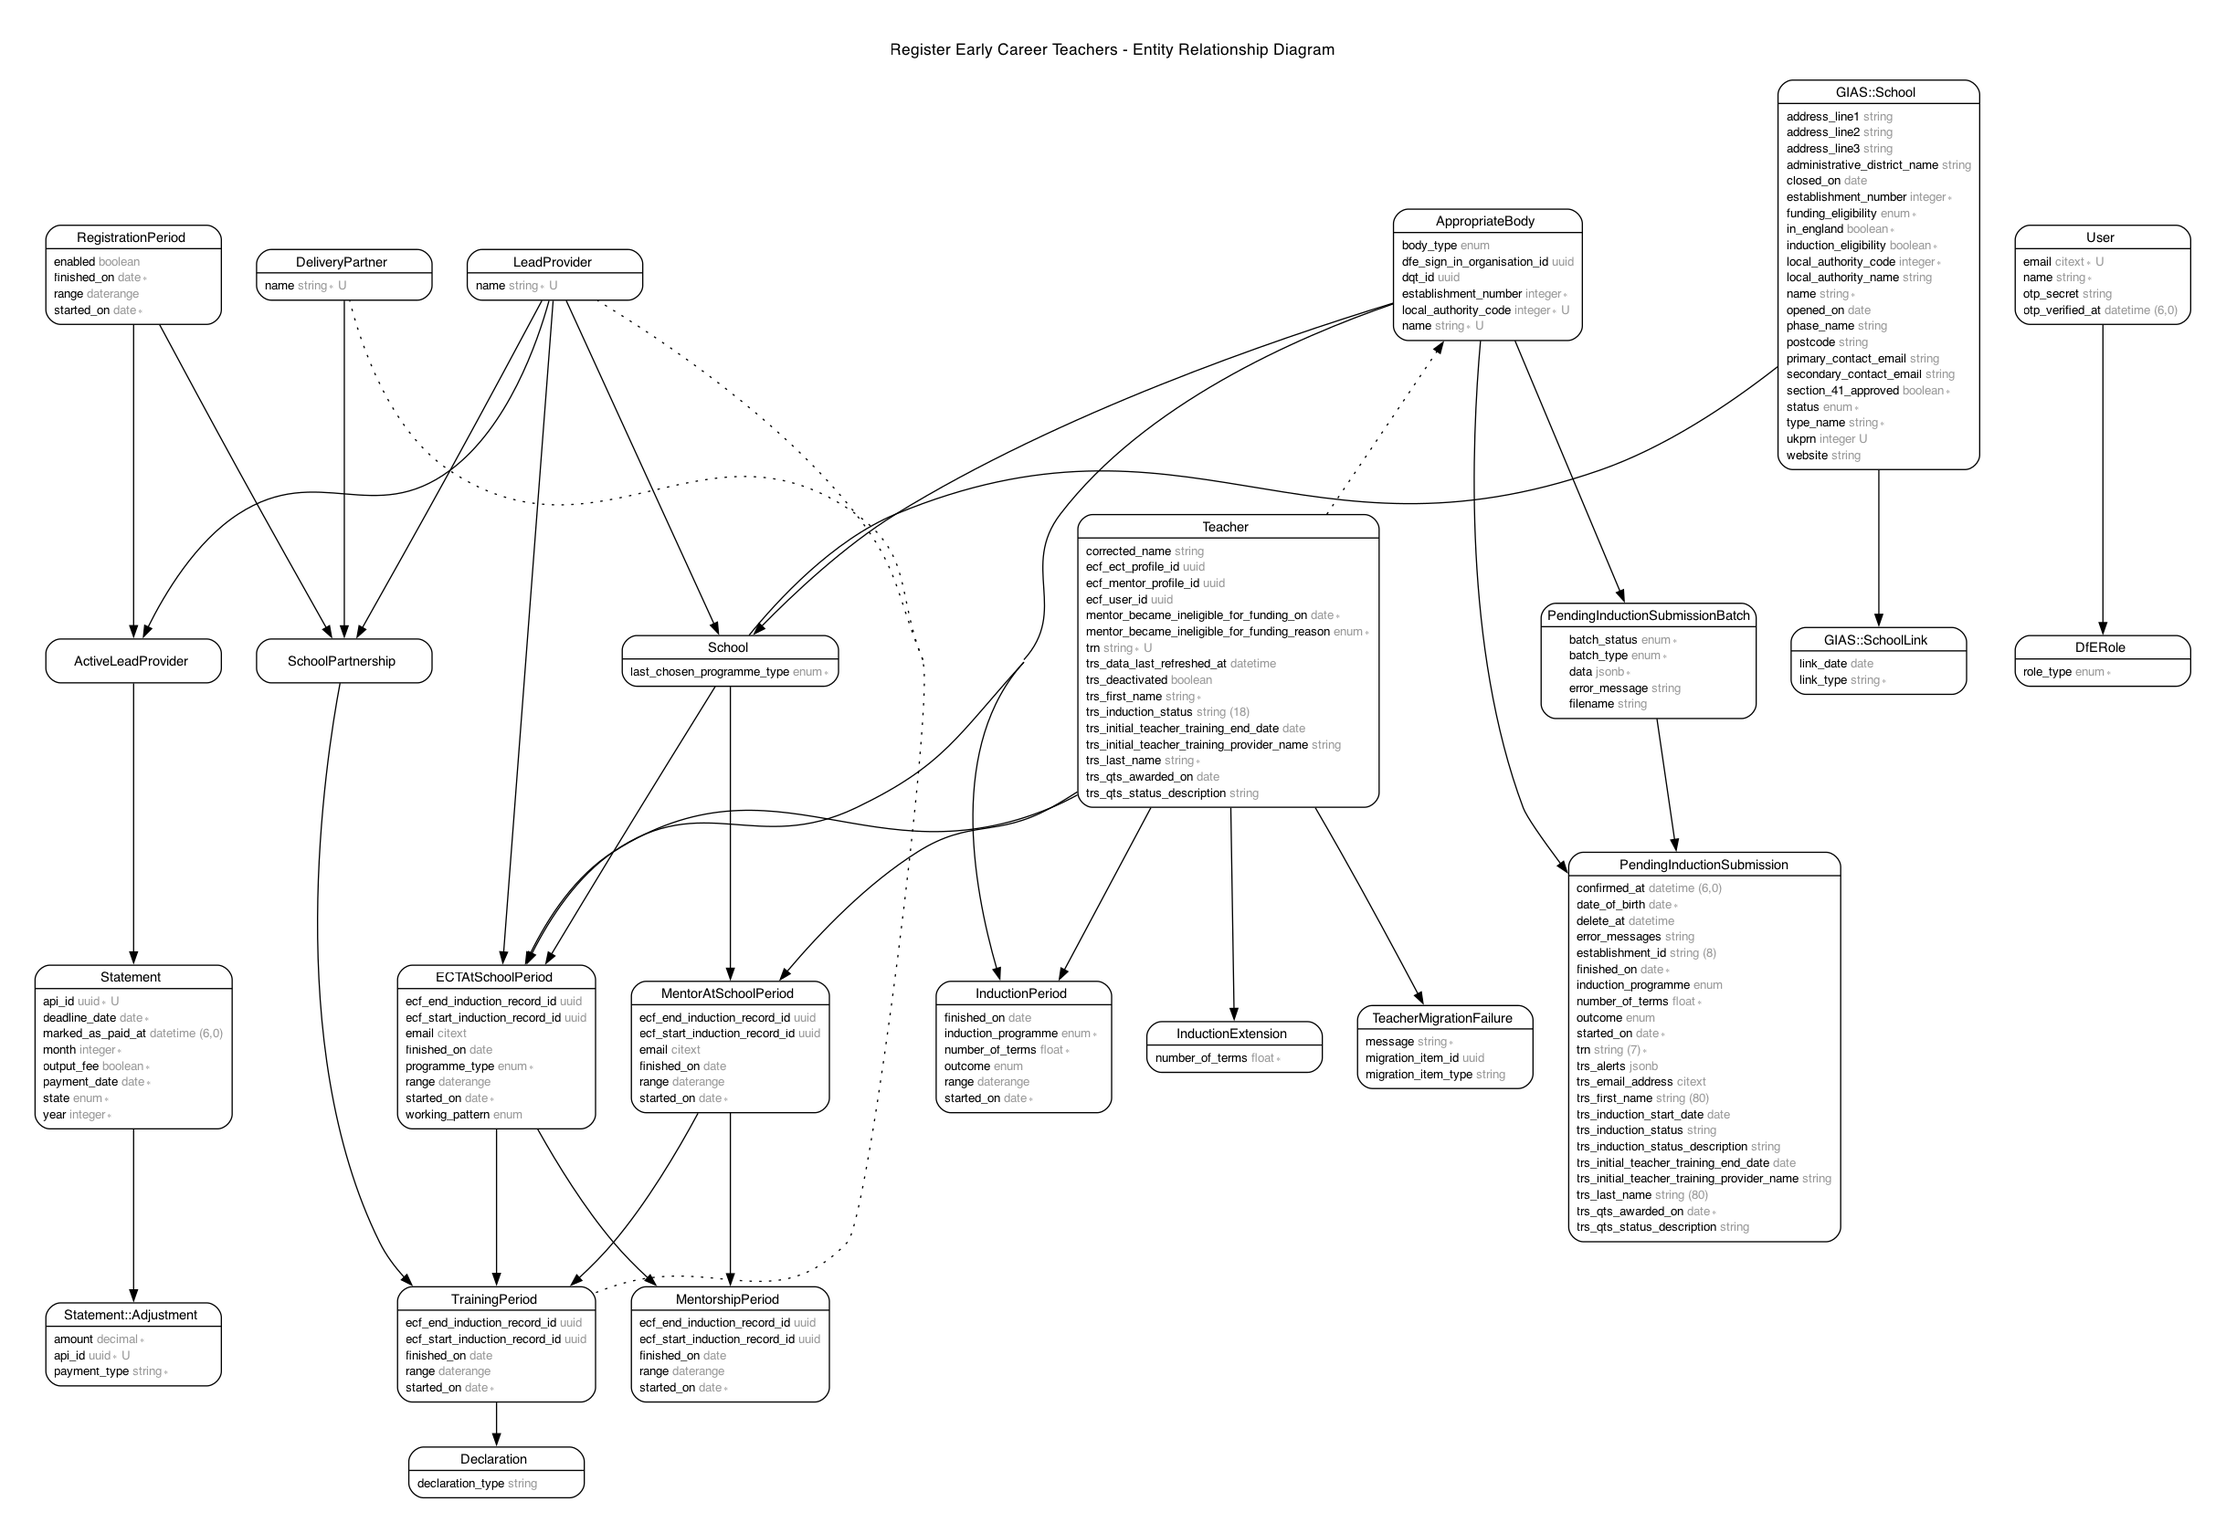
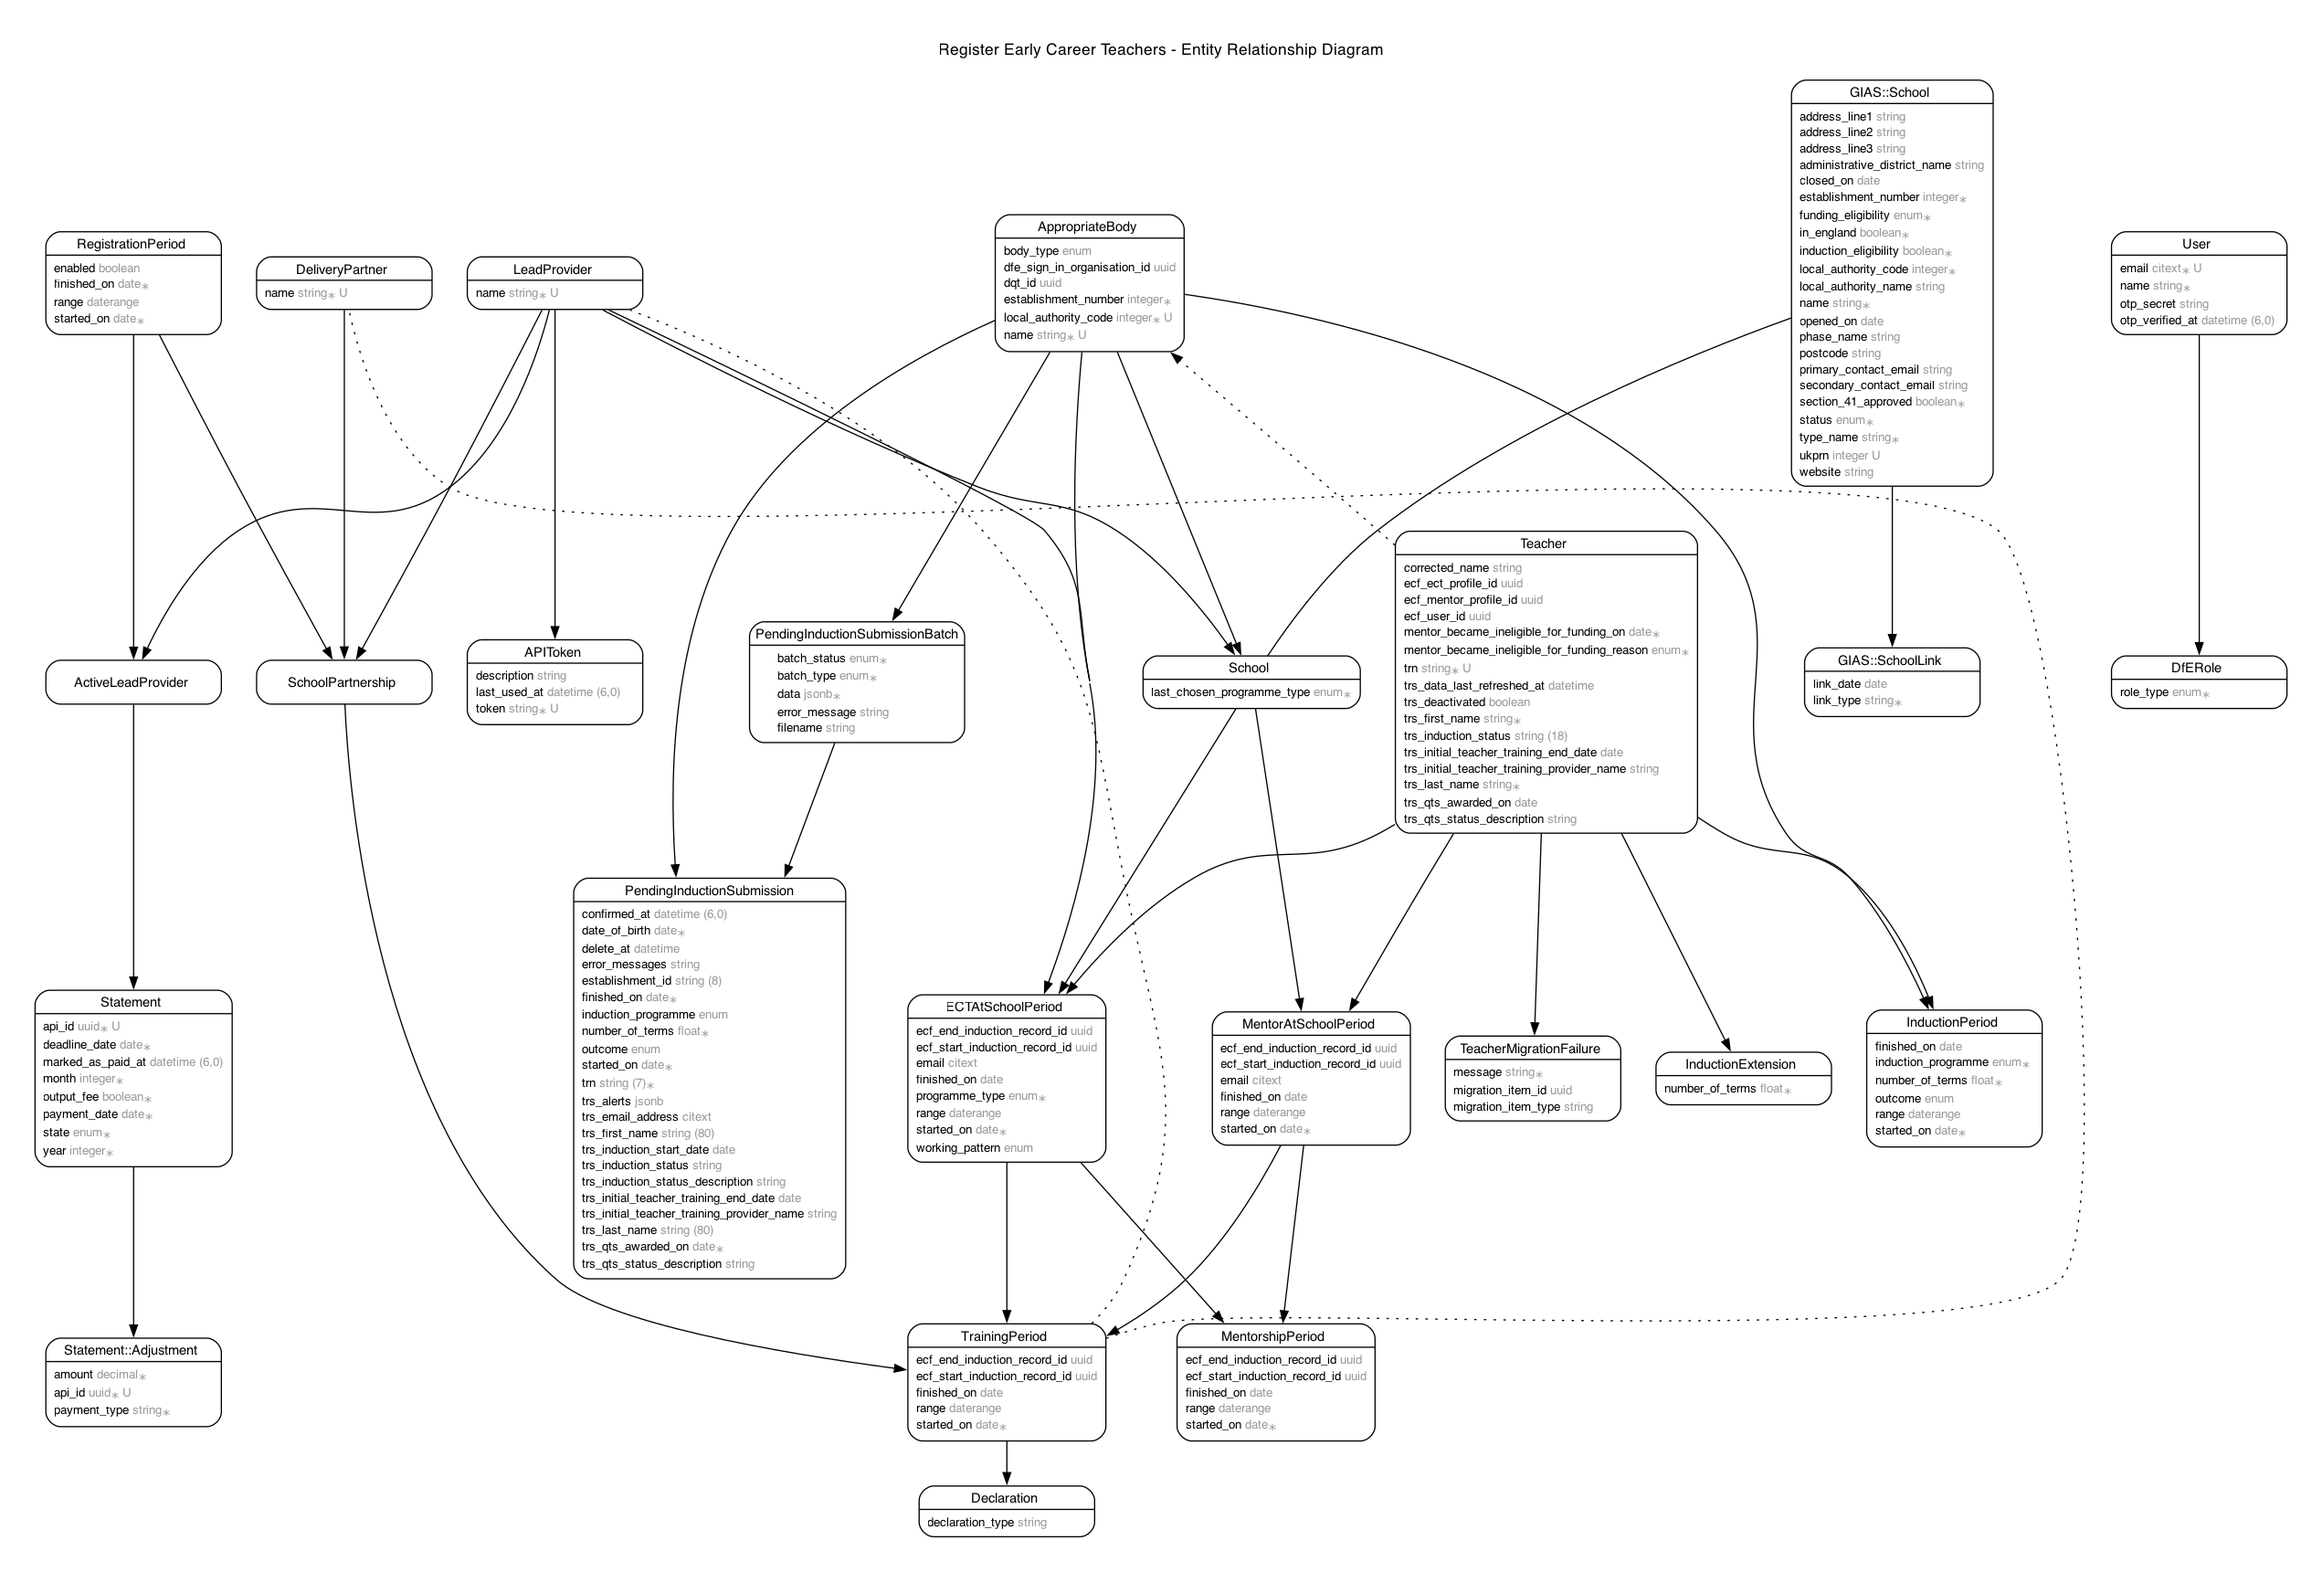
Add APIToken model
Add the `APIToken` model that we will use to authenticate lead providers with
the API.

Includes an `description` field to explain the purpose of a token if its not
clear.

diff --git a/db/schema.rb b/db/schema.rb
@@ -10,7 +10,7 @@
 #
 # It's strongly recommended that you check this file into your version control system.
 
-ActiveRecord::Schema[8.0].define(version: 2025_05_20_064223) do
+ActiveRecord::Schema[8.0].define(version: 2025_05_21_084933) do
   # These are extensions that must be enabled in order to support this database
   enable_extension "citext"
   enable_extension "pg_catalog.plpgsql"
@@ -41,6 +41,17 @@ ActiveRecord::Schema[8.0].define(version: 2025_05_20_064223) do
     t.index ["lead_provider_id", "registration_period_id"], name: "idx_on_lead_provider_id_registration_period_id_1c10f35875", unique: true
     t.index ["lead_provider_id"], name: "index_active_lead_providers_on_lead_provider_id"
     t.index ["registration_period_id"], name: "index_active_lead_providers_on_registration_period_id"
+  end
+
+  create_table "api_tokens", force: :cascade do |t|
+    t.bigint "lead_provider_id"
+    t.string "token", null: false
+    t.string "description", null: false
+    t.datetime "last_used_at"
+    t.datetime "created_at", null: false
+    t.datetime "updated_at", null: false
+    t.index ["lead_provider_id"], name: "index_api_tokens_on_lead_provider_id"
+    t.index ["token"], name: "index_api_tokens_on_token", unique: true
   end
 
   create_table "appropriate_bodies", force: :cascade do |t|

diff --git a/spec/models/api_token_spec.rb b/spec/models/api_token_spec.rb
@@ -1,0 +1,31 @@
+describe APIToken do
+  describe "associations" do
+    it { is_expected.to belong_to(:lead_provider) }
+  end
+
+  describe "validations" do
+    subject { FactoryBot.build(:api_token) }
+
+    it { is_expected.to validate_presence_of(:lead_provider).with_message("Lead provider must be specified") }
+    it { is_expected.to validate_presence_of(:token).with_message("Hashed token must be specified") }
+    it { is_expected.to validate_uniqueness_of(:token).with_message("Hashed token must be unique") }
+  end
+
+  describe "has_secure_token" do
+    it "generates a 32 character token on create" do
+      lead_provider = FactoryBot.create(:lead_provider)
+      generated_token = described_class.create!(lead_provider:, description: "Test token").token
+      expect(generated_token).to be_present
+      expect(generated_token.size).to eq(32)
+    end
+  end
+
+  describe "encrypts" do
+    it "encrypts the token" do
+      api_token = FactoryBot.create(:api_token)
+      encrypted_token = api_token.token_before_type_cast
+
+      expect(api_token.token).not_to eq(encrypted_token)
+    end
+  end
+end

diff --git a/app/models/api_token.rb b/app/models/api_token.rb
@@ -1,0 +1,10 @@
+class APIToken < ApplicationRecord
+  has_secure_token :token, length: 32
+  encrypts :token, deterministic: true
+
+  belongs_to :lead_provider
+
+  validates :lead_provider, presence: { message: "Lead provider must be specified" }
+  validates :token, presence: { message: "Hashed token must be specified" }
+  validates :token, uniqueness: { message: "Hashed token must be unique" }
+end

diff --git a/db/migrate/20250521084933_create_api_tokens.rb b/db/migrate/20250521084933_create_api_tokens.rb
@@ -1,0 +1,15 @@
+class CreateAPITokens < ActiveRecord::Migration[8.0]
+  def change
+    create_table :api_tokens do |t|
+      t.references :lead_provider, index: true
+
+      t.string :token, null: false
+      t.string :description, null: false
+      t.datetime :last_used_at
+
+      t.timestamps
+
+      t.index :token, unique: true
+    end
+  end
+end

diff --git a/spec/models/lead_provider_spec.rb b/spec/models/lead_provider_spec.rb
@@ -3,6 +3,7 @@ describe LeadProvider do
     it { is_expected.to have_many(:school_partnerships) }
     it { is_expected.to have_many(:events) }
     it { is_expected.to have_many(:active_lead_providers).inverse_of(:lead_provider) }
+    it { is_expected.to have_many(:api_tokens) }
   end
 
   describe "validations" do

diff --git a/app/models/lead_provider.rb b/app/models/lead_provider.rb
@@ -3,6 +3,7 @@ class LeadProvider < ApplicationRecord
   has_many :school_partnerships, inverse_of: :lead_provider
   has_many :active_lead_providers, inverse_of: :lead_provider
   has_many :events
+  has_many :api_tokens
 
   # Validations
   validates :name,

diff --git a/spec/factories/api_token_factory.rb b/spec/factories/api_token_factory.rb
@@ -1,0 +1,7 @@
+FactoryBot.define do
+  factory(:api_token) do
+    association :lead_provider
+    description { "A token used for test purposes" }
+    last_used_at { Faker::Time.between(from: 1.month.ago, to: 1.day.ago) }
+  end
+end
